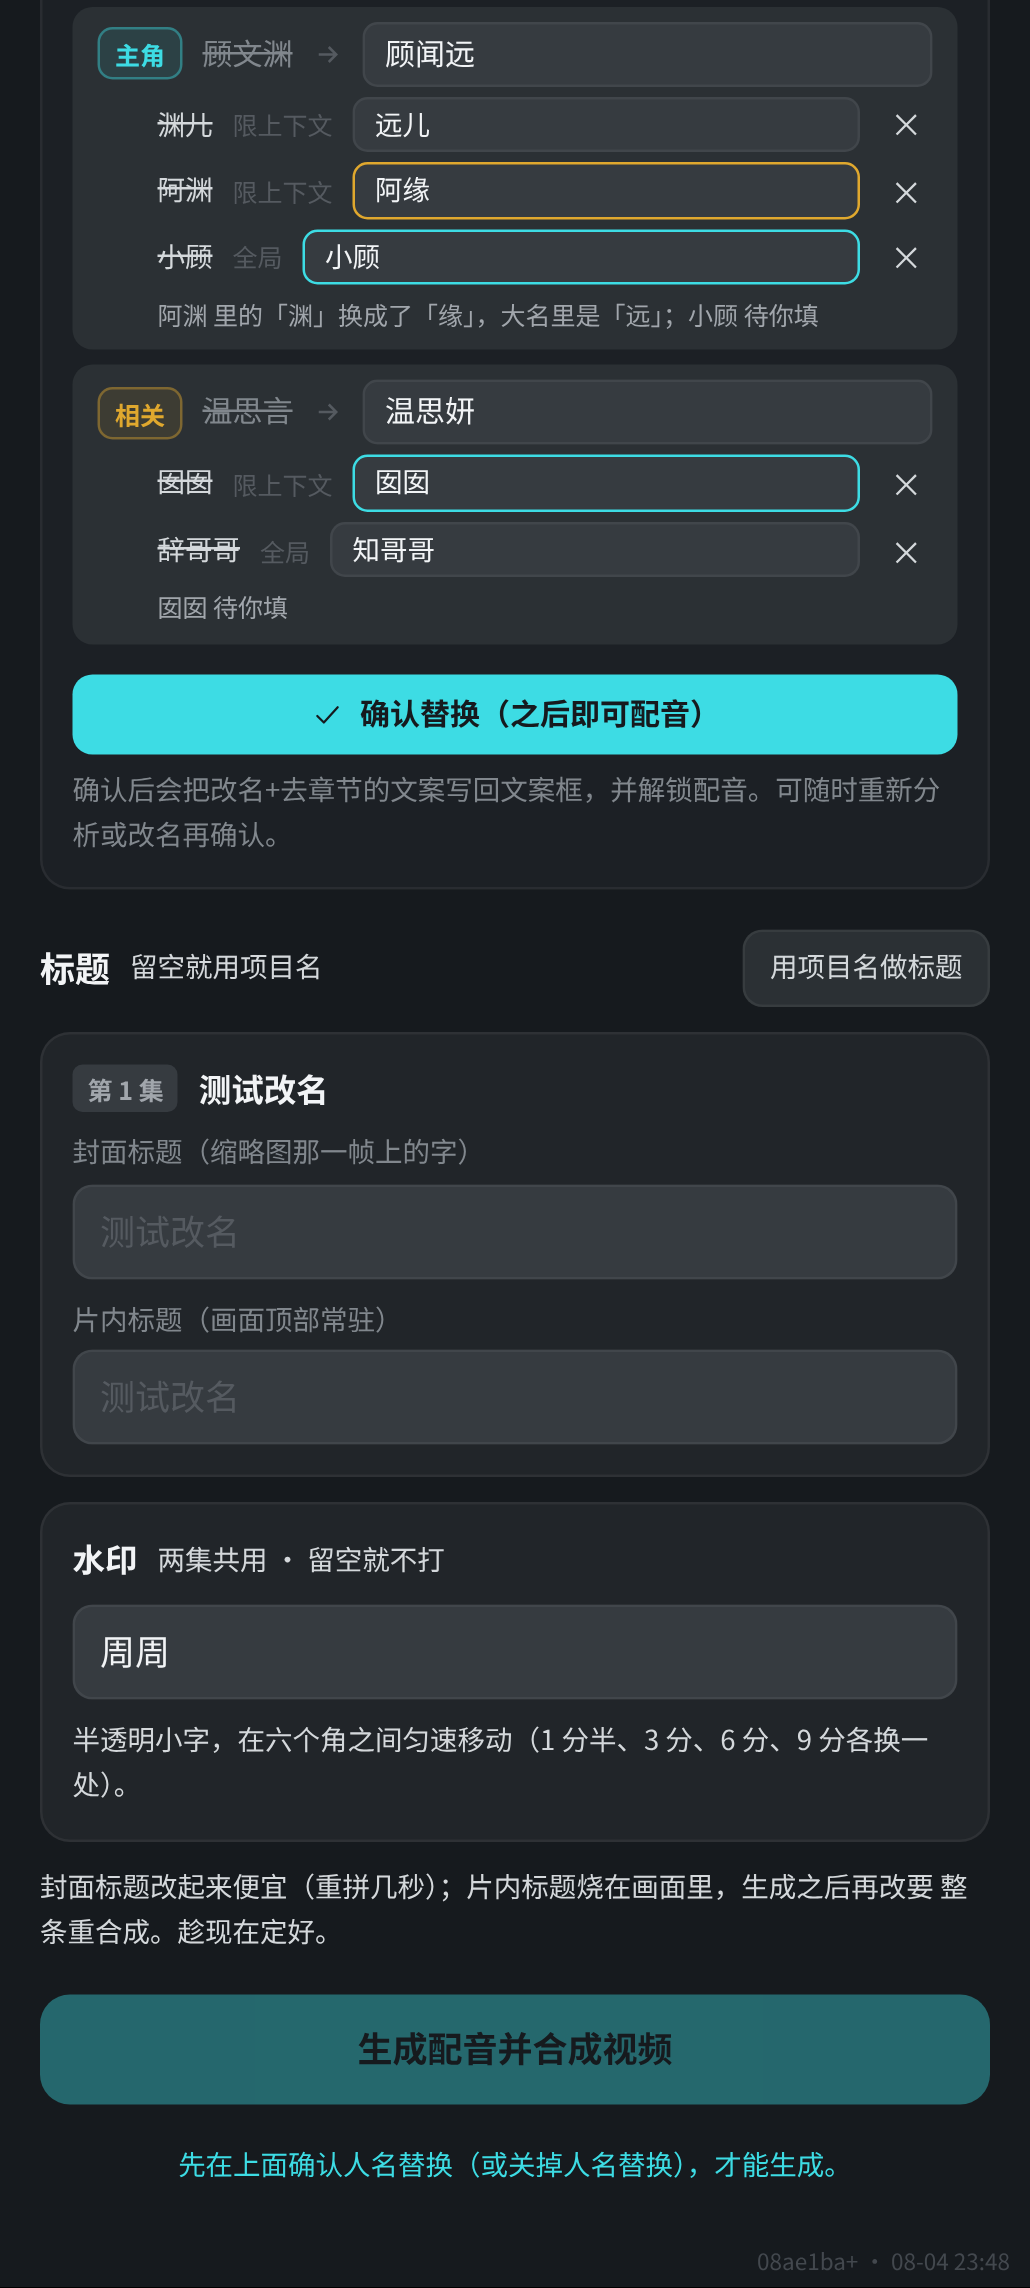
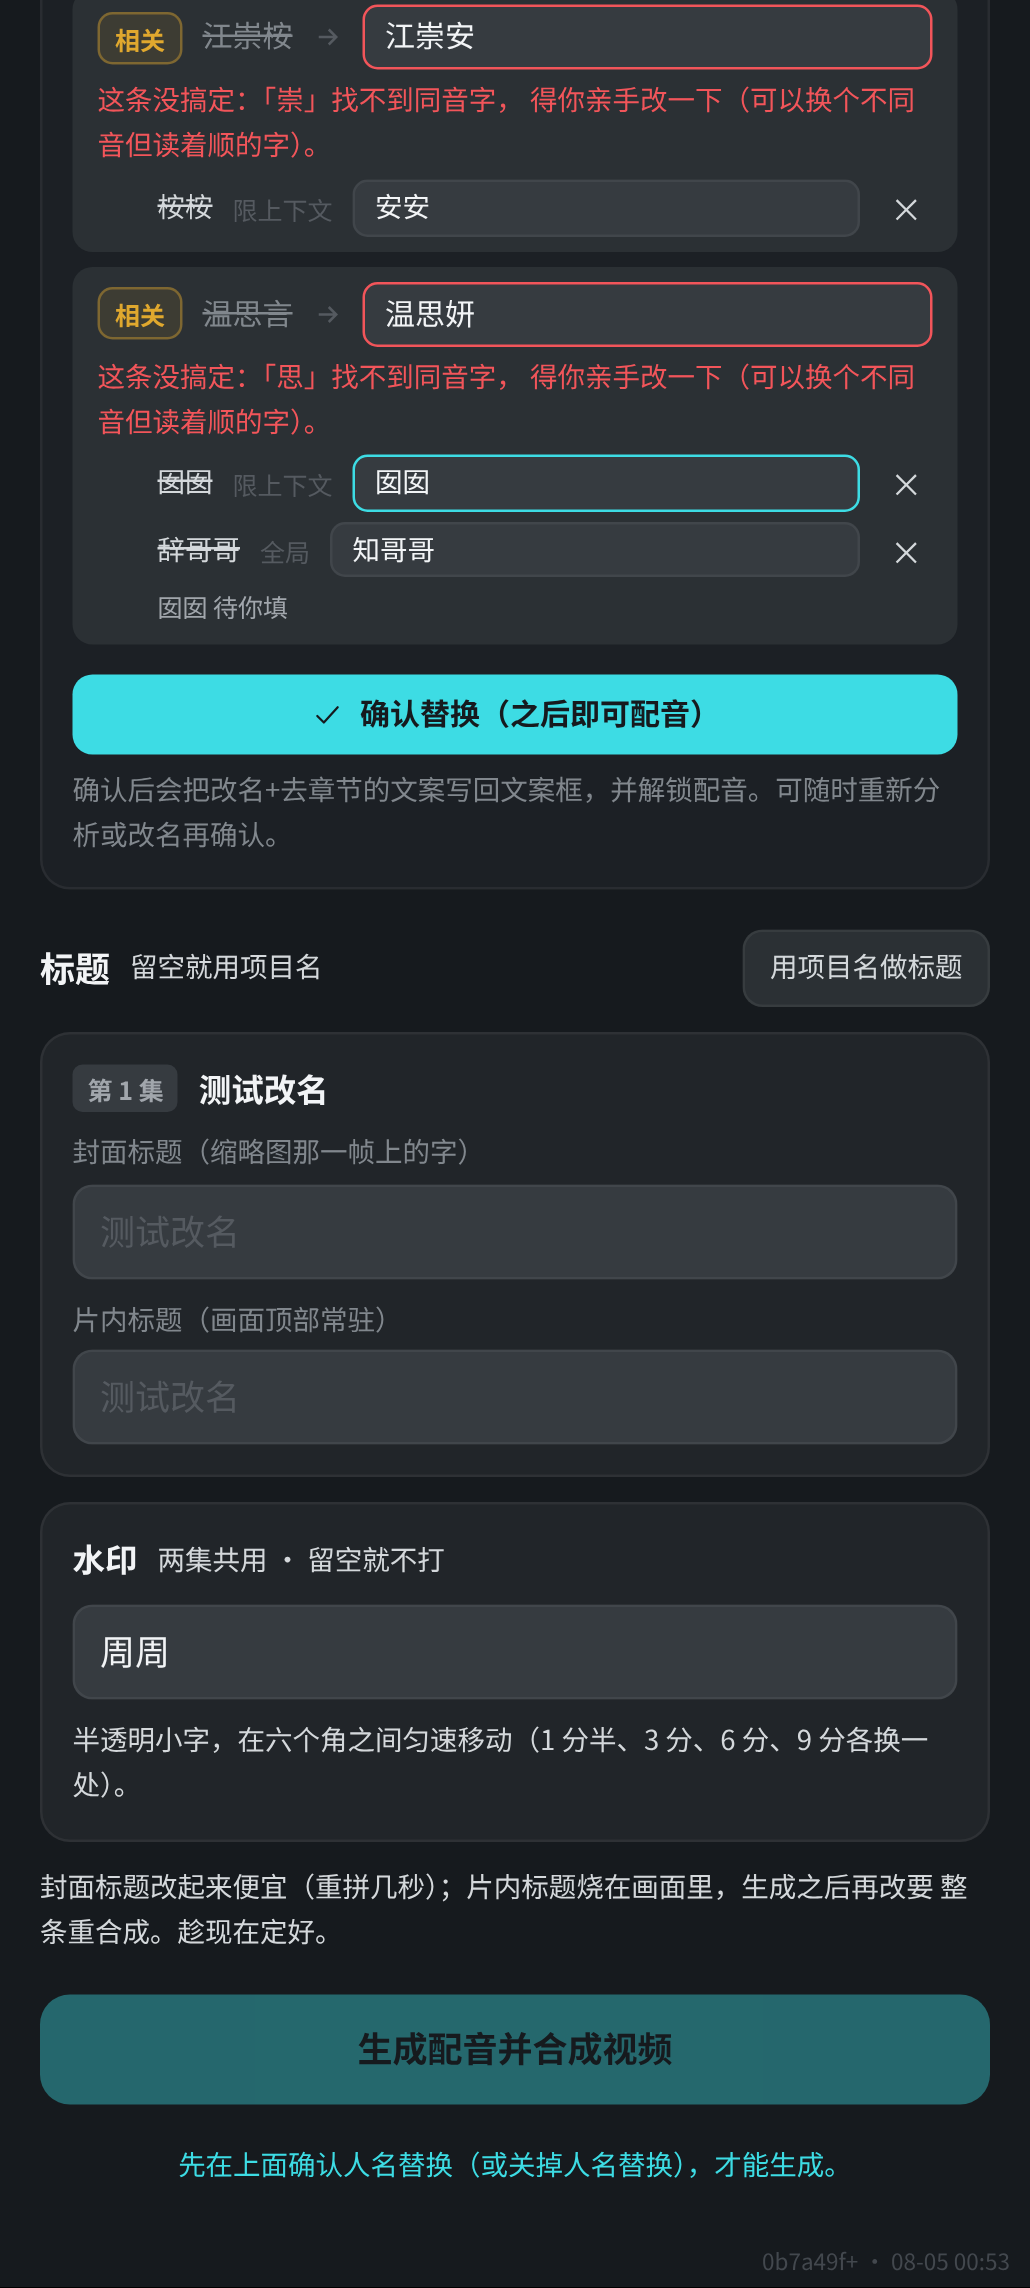
最后的兜底：实在没搞定就明说，别装作没事
三级递进，每一级都能被检测：
  模型换对了            → 无提示
  模型没换干净          → 代码用同音字表补上（上一个提交）
  连同音字都没有(0.27%) → 红框 + 指名道姓是哪个字，请人手动改

不吭声的话，名字里留着原字、观众照样能搜到原作，而用户完全不知道。

修一个我自己写的 bug：原本用"开头相同的一截"当姓，结果
「江崇桉 → 江崇安」里没换的「崇」会被当成姓吃掉——而它正是要检测的
那个字。改成按姓氏表判（复姓表和后端 COMPOUND_SURNAMES 一致）。

diff --git a/web/src/components/NameReplacePanel.tsx b/web/src/components/NameReplacePanel.tsx
@@ -1,6 +1,6 @@
 import { useEffect } from 'react'
 import { useProjects } from '../store/projects'
-import { useRename, readReview, pairInconsistencies, pairNeedsYou, type CharacterRole, type RenameAnalysis } from '../store/rename'
+import { useRename, readReview, pairInconsistencies, pairNeedsYou, stuckGivenChars, type CharacterRole, type RenameAnalysis } from '../store/rename'
 import { IconLoader, IconCheck, IconEdit } from './ui/Icon'
 
 /**
@@ -141,9 +141,23 @@ export function NameReplacePanel () {
                         value={c.replacement}
                         onChange={(e) => editReplacement(i, e.target.value)}
                         aria-label={`${c.original} 的新名`}
-                        className="min-w-0 flex-1 rounded-md border border-line bg-ink-800 px-2 py-1 text-xs text-ink-50 outline-none focus:border-accent"
+                        className={`min-w-0 flex-1 rounded-md border bg-ink-800 px-2 py-1 text-xs text-ink-50 outline-none focus:border-accent ${
+                          stuckGivenChars(c).length > 0 ? 'border-danger' : 'border-line'}`}
                       />
                     </div>
+
+                    {/*
+                      * 【最后的兜底：明说没搞定】。走到这儿说明前面全都没兜住——
+                      * 模型没换，代码的同音字表也挑不出替身（两万汉字里 56 个
+                      * 字连一个同音字都没有）。不吭声的话，名字里留着原字，
+                      * 观众照样能搜到原作，而用户完全不知道。
+                      */}
+                    {stuckGivenChars(c).length > 0 && (
+                      <p className="mt-1 text-[11px] leading-relaxed text-danger">
+                        这条没搞定：「{stuckGivenChars(c).join('」「')}」找不到同音字，
+                        得你亲手改一下（可以换个不同音但读着顺的字）。
+                      </p>
+                    )}
 
                     {/*
                       * 【小名/别称也摆出来让人过目】。它们一直都在（模型给的 pairs 里），

diff --git a/tests/web/rename-store.test.ts b/tests/web/rename-store.test.ts
@@ -1,5 +1,5 @@
 import { describe, it, expect } from 'vitest'
-import { editCharacterName, renameGates, pairInconsistencies, pairNeedsYou, type CharacterReplacement } from '../../web/src/store/rename'
+import { editCharacterName, renameGates, pairInconsistencies, pairNeedsYou, stuckGivenChars, type CharacterReplacement } from '../../web/src/store/rename'
 import type { Project } from '../../web/src/store/projects'
 
 describe('editCharacterName —— 改新名，pairs 一起改，保持一致', () => {
@@ -100,5 +100,36 @@ describe('改不出来的小名 = 待办，不是错误', () => {
     ['只含姓的也一样交给人', '小顾', '小顾', true],
   ])('%s → 待你填=%s', (_label, from, to, want) => {
     expect(pairNeedsYou(gu(from, to), 0)).toBe(want)
+  })
+})
+
+describe('最后的兜底：大名没搞定要能检测出来', () => {
+  /*
+   * 走到这一步说明前面全都没兜住：模型没换、代码的同音字表也挑不出替身
+   * （两万汉字里 56 个字连一个同音字都没有，0.27%）。
+   * 界面要明着说"这条没搞定"，不能装作没事——名字里留着原字，
+   * 观众照样能搜到原作。
+   */
+  const c = (original: string, replacement: string): CharacterReplacement =>
+    ({ original, replacement, role: 'protagonist', pairs: [] })
+
+  it('换干净了 → 没有遗留', () => {
+    expect(stuckGivenChars(c('顾文渊', '顾闻远'))).toEqual([])
+  })
+
+  it('有一个字没换 → 报出来', () => {
+    expect(stuckGivenChars(c('江崇桉', '江崇安'))).toEqual(['崇'])
+  })
+
+  it('两个字都没换 → 都报', () => {
+    expect(stuckGivenChars(c('顾文渊', '顾文渊'))).toEqual(['文', '渊'])
+  })
+
+  it('姓相同不算遗留（姓本来就不换）', () => {
+    expect(stuckGivenChars(c('顾文渊', '顾闻缘'))).toEqual([])
+  })
+
+  it('长度对不上就不硬判', () => {
+    expect(stuckGivenChars(c('顾文渊', '顾闻'))).toEqual([])
   })
 })

diff --git a/web/src/store/rename.ts b/web/src/store/rename.ts
@@ -236,3 +236,30 @@ function charSubstitutions (from: string, to: string): Map<string, string> {
   }
   return m
 }
+
+/**
+ * 大名里【还留着的原字】。
+ *
+ * 走到这一步说明前面全都没兜住：模型没换、代码的同音字表也挑不出替身
+ * （两万汉字里 56 个字连一个同音字都没有，0.27%）。这时候不能装作没事——
+ * 名字里留着原字，观众照样能搜到原作。界面上必须明着说"这条没搞定"。
+ *
+ * ⚠【姓要按姓氏表判，不能用"开头相同的一截"去猜】。踩过：用后者的话，
+ * 「江崇桉 → 江崇安」里没换的「崇」会被当成姓的一部分吃掉——而它正是
+ * 要检测的那个字。复姓表和后端 deepseek.ts 的 COMPOUND_SURNAMES 一致。
+ */
+const COMPOUND_SURNAMES = [
+  '欧阳', '司马', '上官', '夏侯', '诸葛', '闻人', '东方', '赫连', '皇甫', '尉迟',
+  '公羊', '澹台', '公孙', '轩辕', '令狐', '宇文', '长孙', '慕容', '司徒', '司空',
+  '独孤', '南宫', '万俟', '拓跋', '第五', '呼延',
+]
+
+export function stuckGivenChars (c: CharacterReplacement): string[] {
+  const a = [...c.original]
+  const b = [...c.replacement]
+  if (a.length !== b.length) return []          // 长度不一样，没法逐位比
+  const start = COMPOUND_SURNAMES.some((s) => c.original.startsWith(s)) ? 2 : 1
+  const out: string[] = []
+  for (let k = start; k < a.length; k++) if (a[k] === b[k]) out.push(a[k]!)
+  return out
+}
